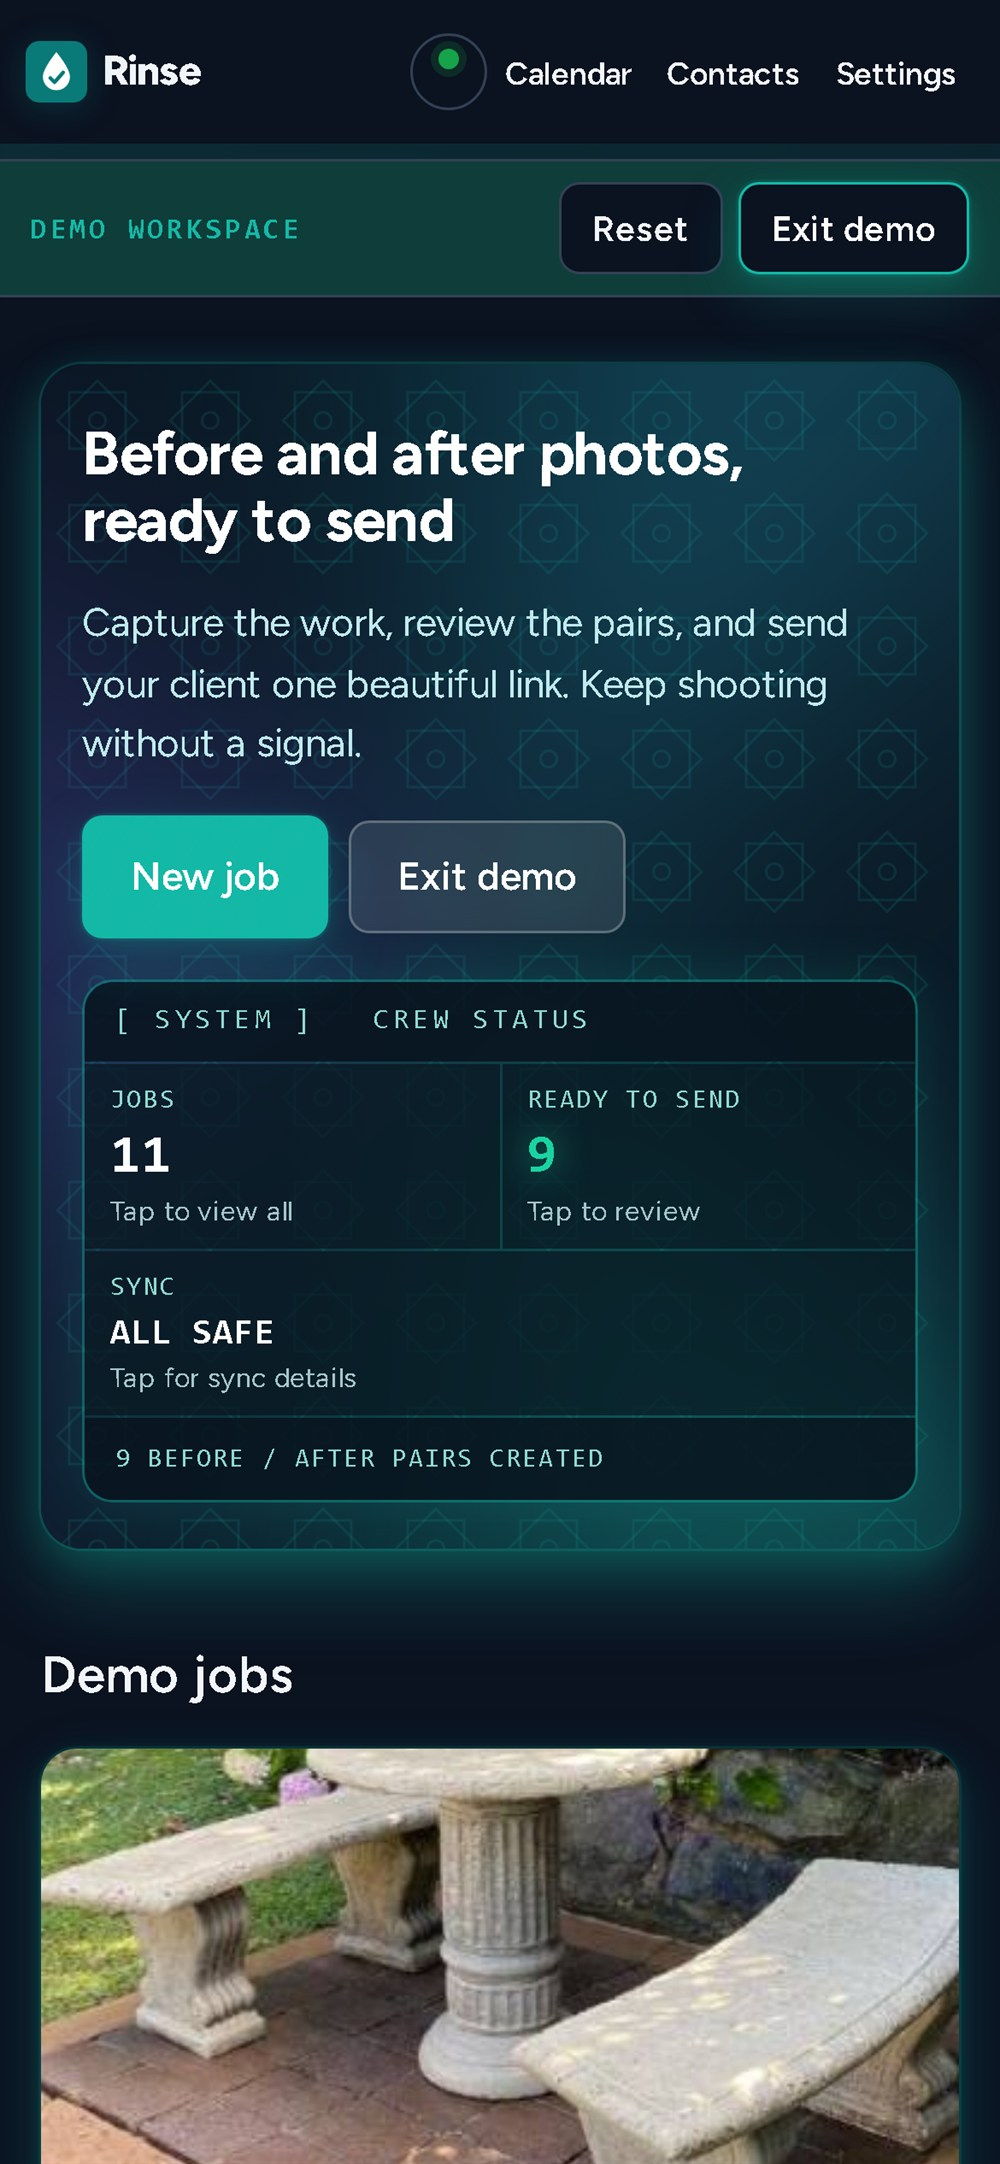
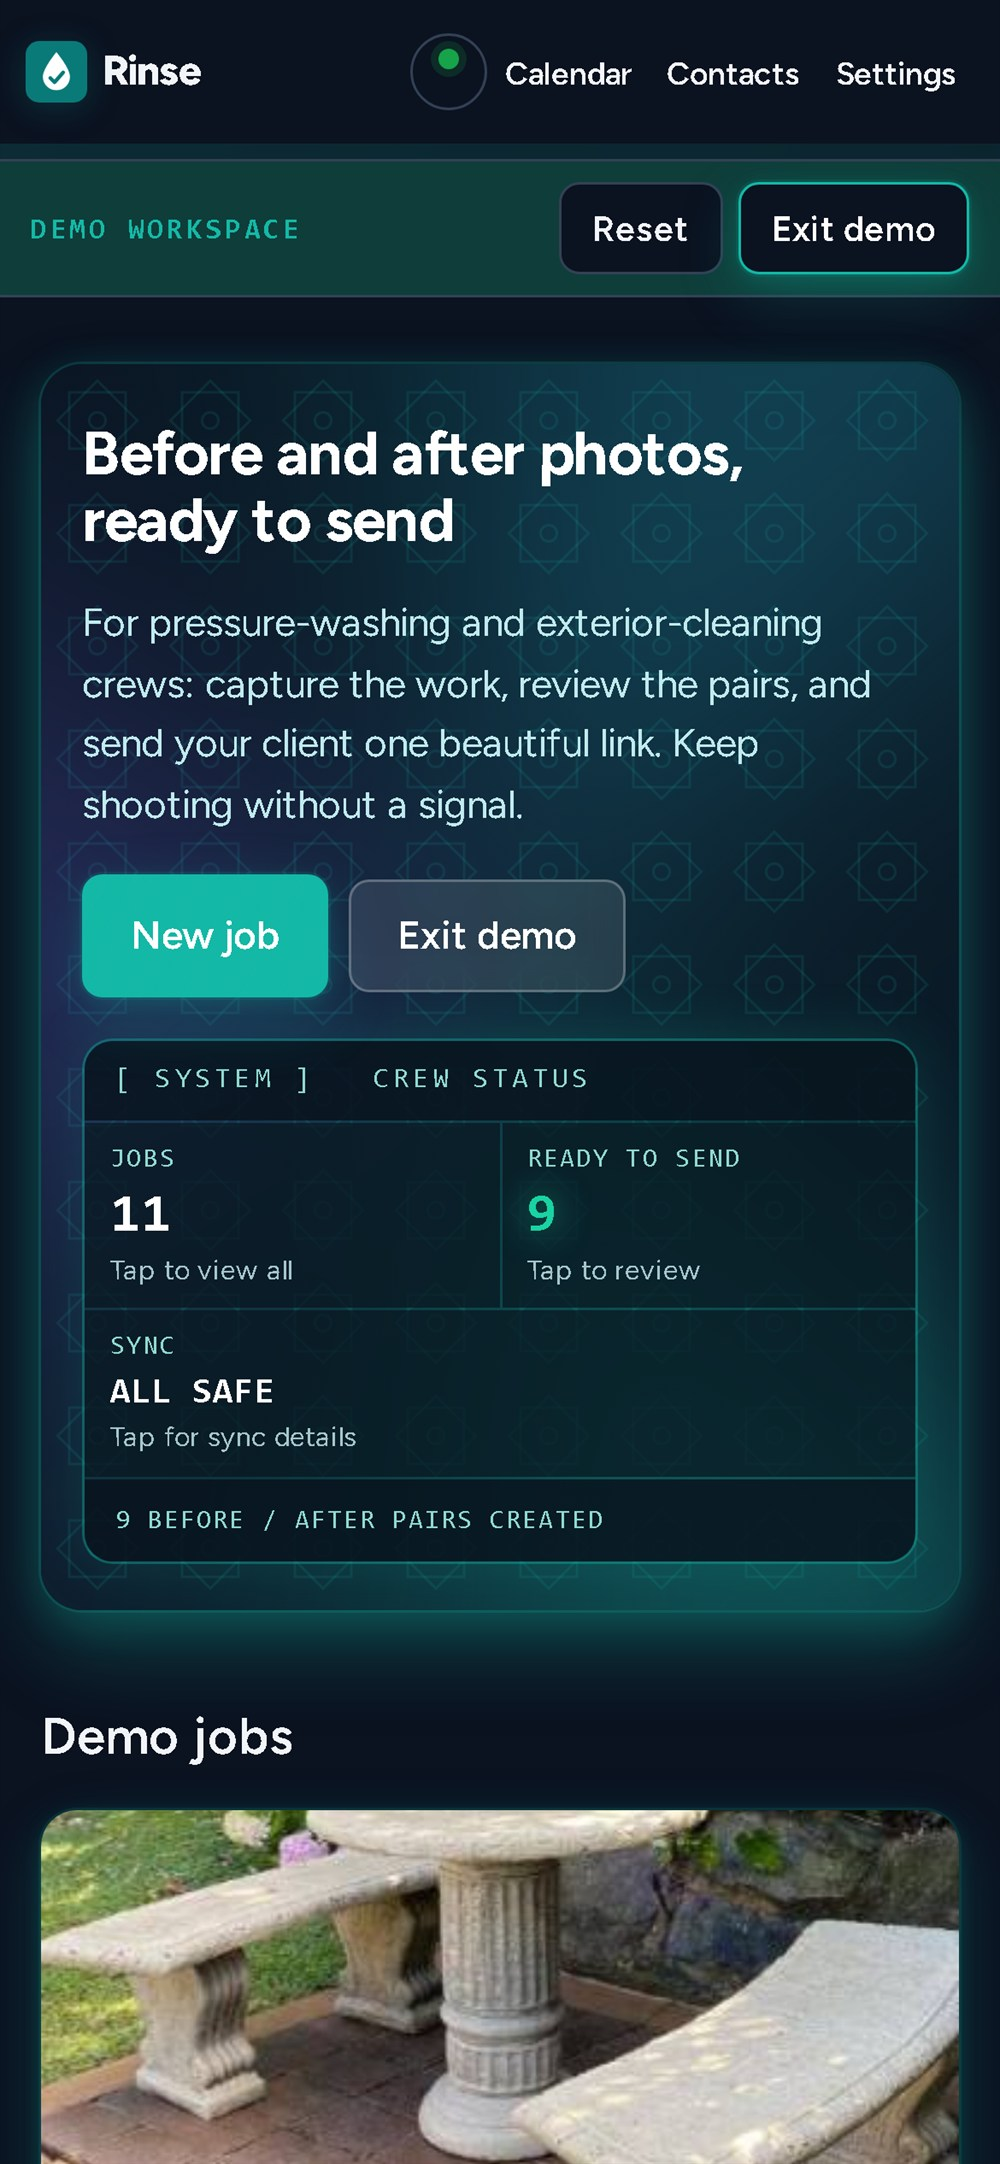
Add build log, move planning docs to the repo root, name the audience on the hero
- BUILD_LOG.md: tools, pivots, decisions, evidence, what I would change
- scope.md, prd.md, spec.md moved from devpost/ to the root so judges find them
- Home hero now says who the app is for, not just what it does
- Story: competitor research and the design system; fresh home screenshot

Changed region(s): [[0.031, 0.2787, 0.961, 1.0], [0.868, 0.4644, 0.93, 0.4954]]

diff --git a/app.js b/app.js
@@ -369,7 +369,7 @@
       (waiting ? '<span class="badge wait">Waiting to sync</span>' : j.share ? '<span class="badge">Shared</span>' : '') + '</div><div class="job-title-row"><h3>' + esc(j.name) + '</h3><span class="job-state ' + statusClass + '">' + esc(status) + '</span></div><small>' + esc([j.client, fmtDate(j.date)].filter(Boolean).join(' · ')) + '</small><small>' + g.pairs.length + ' pair' + (g.pairs.length === 1 ? '' : 's') + (g.loose.length ? ' · ' + g.loose.length + ' to sort' : '') + (pendingCRM ? ' · CRM pending' : '') + '</small></button>'
     ).join('');
     const syncLabel = !navigator.onLine ? 'OFFLINE' : pendingOps ? pendingOps + ' PENDING' : 'ALL SAFE';
-    app.innerHTML = '<section class="hero"><h1>Before and after photos, ready to send</h1><p>Capture the work, review the pairs, and send your client one beautiful link. Keep shooting without a signal.</p>' +
+    app.innerHTML = '<section class="hero"><h1>Before and after photos, ready to send</h1><p>For pressure-washing and exterior-cleaning crews: capture the work, review the pairs, and send your client one beautiful link. Keep shooting without a signal.</p>' +
       '<div class="row"><button class="btn primary" data-act="new">New job</button>' + (mode() === 'demo' ? '<button class="btn" data-act="mode-live">Exit demo</button>' : '<button class="btn" data-act="demo">Explore the demo · 11 jobs</button>') + '</div>' +
       '<div class="status-win"><div class="ttl">[ SYSTEM ] &nbsp; CREW STATUS</div>' +
       '<button class="status-cell" type="button" data-act="filter-all" aria-label="Show all jobs"><small>JOBS</small><strong>' + rows.length + '</strong><span class="status-note">Tap to view all</span></button>' +

diff --git a/BUILD_LOG.md b/BUILD_LOG.md
@@ -1,0 +1,37 @@
+# Build log — Rinse
+
+Devpost *Build With AI: Basics*, October 2026. A short, honest record of what was used, what changed, and what was actually verified.
+
+## Tools
+
+- **Claude (chat):** planning, competitor research, design direction, submission copy.
+- **OpenCode with a coding agent:** implementation, verification, deployment.
+- **Devpost Learn Skill Pack:** `1-start` (learner profile), `2-scope` (scope.md), `3-prd` (prd.md), `4-spec` (stack, data, file structure), `5-build` (ordered steps, verify and commit each one), `6-ship` (submission text and demo plan).
+- **Runtime:** Vercel (static + one serverless function), a private Blob store for hosted client links, and an OpenAI-compatible endpoint for the optional model pass.
+
+## Pivots
+
+1. **Red Ink** — an AI tutor that marks the first wrong step of a Bac maths solution in red. The idea survived the scope review; the build did not. Cut before any code.
+2. **A pairing demo built around the skill pack** — polished, but designed for nobody in particular.
+3. **Rinse** — after finding a pressure-washing owner's request on [r/AppIdeas](https://www.reddit.com/r/AppIdeas/s/804F3d7JBV): five concrete asks, and one incumbent (CompanyCam) that small crews describe as too expensive. A real user's list replaced my guesses, and that is what made the scope finishable.
+
+## Decisions
+
+- **Deterministic first, AI optional.** Pairing runs on image fingerprints plus capture order; the model adds hard-case pairing, captions and the client message. With no key and no network the app still works.
+- **Offline is the default, not a feature.** Photos go straight into IndexedDB; publishing a link and sending to a CRM wait in an outbox and drain when signal returns.
+- **One link, versioned.** Re-publishing updates the gallery and keeps the URL a client already has.
+- **Two workspaces.** Real jobs and the 11-job sample workspace never mix (`?demo=1`).
+- **No AI-generated "after" photos.** The photograph is the evidence; AI is not allowed near it.
+- **Vanilla JS, no build step.** Fewer moving parts to break on a phone during a demo.
+
+## Evidence
+
+- `test/` holds browser suites for pairing, the camera overlay, offline reload and hosted links, plus a share-API security suite (token abuse, path traversal, non-image uploads, escaping). Run with `npm run test:e2e` against `node server.js`.
+- Pairing matcher: every correct pair on the sample set was matched correctly, with zero wrong pairs; the one miss was an image with no scene structure to match.
+- The AI path was exercised against a mock provider (including a rejected key and a proxy that ignores JSON mode); `npm run test:ai` checks the real endpoint once a key is set.
+- Manual verification of the deployed build: demo seeds 11 jobs / 9 pairs, a client link is created and opens as a gallery, and the app reloads with the network disabled.
+- Competitor pricing and feature gaps are recorded in `COMPETITORS.md`.
+
+## What I would change
+
+The planning documents drift the moment the build changes. Three mid-build decisions — two databases instead of one, Blob storage instead of local disk, AI demoted from required to optional — each left `scope.md`, `prd.md` and `spec.md` describing an app that no longer existed. They were reconciled against the shipped code at the end; that reconciliation should be a step in the process, not an afterthought.

diff --git a/devpost/story.md b/devpost/story.md
@@ -34,11 +34,22 @@ I am an electrical engineering student in Morocco, and every app I had built bef
 
 **A phone held in one hand.** Everything is built at 360–390 px first: a status dot instead of a crowded header, the client link above the fold, calendar dots instead of clipped labels, 16 px inputs so iOS does not zoom.
 
+## What the competitor research changed
+
+The obvious comparison is CompanyCam — the tool crews name when they say this software is too expensive. Its listed plans run from about $79 a month for a single user to $249 for a crew, plus roughly $34 per extra seat (figures from third-party price trackers; worth checking directly). Reading its reviews and its neighbours' shaped the build:
+
+- The **ghost-overlay camera** is the feature crews describe as the reason they stay, so it is the first thing you see when you open a job.
+- The **client link is the product**, not an export. It has to look better than a WhatsApp album.
+- **Offline is table stakes.** A driveway has no signal, and a tool that needs one is a tool you quietly stop using.
+- Everything else the incumbents carry — team management, project tracking, dashboards — is what makes them heavy. Leaving it out is the feature.
+
 ## How it is built
 
 Vanilla JavaScript, no framework and no build step — one page, one service worker, one IndexedDB database per workspace. Photos are downscaled with canvas to 1600 px plus a 384 px thumbnail, and a 32×24 fingerprint is computed at capture time for pairing. The client gallery is server-side HTML: self-contained, inline CSS, escaped user text, real `<input type="range">` sliders so it works with a keyboard and a screen reader. Hosted links are stored in a private Blob store from a small serverless function; there is no framework on either side.
 
 The whole thing ships as a PWA: installable, cached, and it reloads offline. I verified that by disabling the network in a real browser and reloading the demo — 11 jobs and their photos still render.
+
+The interface follows a written design system (`DESIGN.md`): structure from VoltAgent/awesome-design-md, a photo-first base from its "Airbnb" system, and a rule borrowed from marvkr/better-design. The first pass failed contrast checks — the teal and green left white text at roughly 3:1 — so both were darkened until the primary colour reached 5.2:1.
 
 ![The client link on a phone: one slider, before and after labels, caption](https://raw.githubusercontent.com/iYANSEN/rinse/master/devpost/shots/client-link.jpg)
 
@@ -52,7 +63,7 @@ I ran the Devpost Learn Skill Pack in order, and each step changed what got buil
 
 Flipped interaction is what made those documents mine instead of a template. The agent proposed; I decided. I chose the offline-first constraint, the demo split, and — when time got short — the scope call to finish and polish the demo instead of adding calendar sync or new AI features. `5-build` then worked the spec in ordered steps, verifying and committing each one, and `6-ship` is where this text comes from.
 
-The documents live in the repo (`devpost/scope.md`, `prd.md`, `spec.md`) and are kept in sync with the code on purpose, not as decoration.
+The documents live in the repo root (`scope.md`, `prd.md`, `spec.md`, plus `BUILD_LOG.md`) and are kept in sync with the code on purpose, not as decoration.
 
 ## Challenges
 

diff --git a/devpost/submission.md b/devpost/submission.md
@@ -90,6 +90,6 @@ Accounts and a small team (two phones, one job), cross-device sync, timestamp/GP
 
 ## Notes for the submission form
 
-- The hackathon asks for a public repo. Keep `README.md`, `devpost/scope.md`, `devpost/prd.md` and `devpost/spec.md` at the top of the repo — they describe exactly what was built.
+- The hackathon asks for a public repo with `scope.md`, `prd.md` and `spec.md` that match what was built. They are at the repo root, next to `README.md` and `BUILD_LOG.md`.
 - Do not paste any API key or `.env` contents into Devpost, the video, or the repo.
 - The sample photos in `paired-photos/` are bundled placeholders for the demo, not a customer's job.

diff --git a/README.md b/README.md
@@ -6,6 +6,8 @@ Before/after photo management for pressure-washing and other exterior-service cr
 
 **See a client link:** [rinse-weld-kappa.vercel.app/g/iO3CCoUAEW0](https://rinse-weld-kappa.vercel.app/g/iO3CCoUAEW0)
 
+**Planning docs:** [scope.md](scope.md) · [prd.md](prd.md) · [spec.md](spec.md) · [build log](BUILD_LOG.md) — with the [competitor research](COMPETITORS.md) and the [design system](DESIGN.md) behind them.
+
 ## What it does
 | The business owner asked for | In Rinse |
 |---|---|
